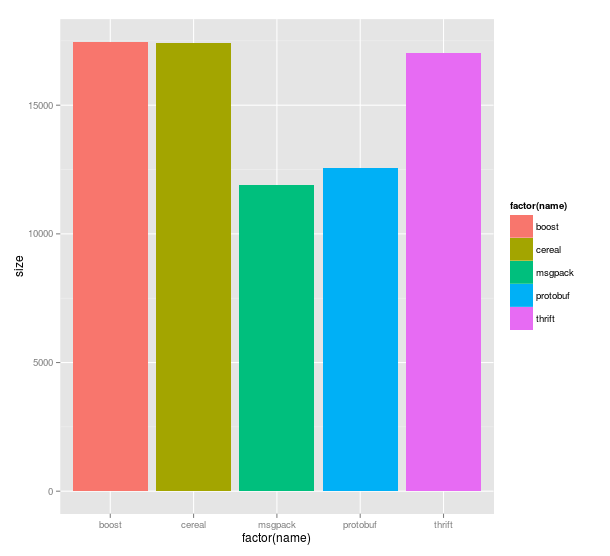
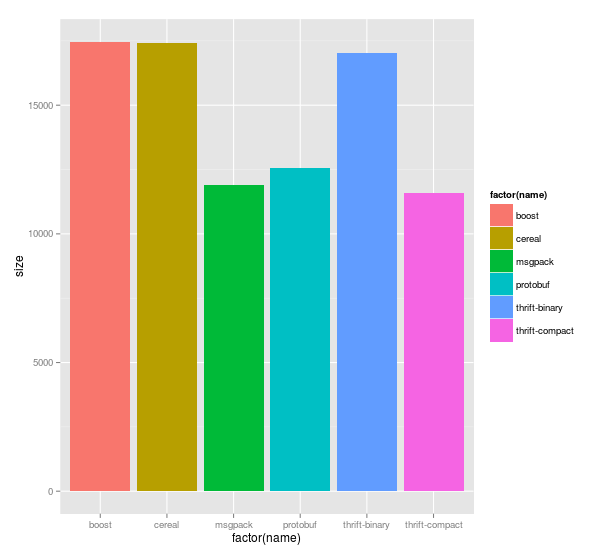
also test Thrift's TCompactProtocol serialization protocol

diff --git a/test.cpp b/test.cpp
@@ -10,6 +10,7 @@
 
 #include <thrift/transport/TBufferTransports.h>
 #include <thrift/protocol/TBinaryProtocol.h>
+#include <thrift/protocol/TCompactProtocol.h>
 
 #include "thrift/gen-cpp/test_types.h"
 #include "thrift/gen-cpp/test_constants.h"
@@ -21,16 +22,28 @@
 
 #include "data.hpp"
 
+enum class ThriftSerializationProto {
+    Binary,
+    Compact
+};
+
 void
-thrift_serialization_test(size_t iterations)
+thrift_serialization_test(size_t iterations, ThriftSerializationProto proto = ThriftSerializationProto::Binary)
 {
     using apache::thrift::transport::TMemoryBuffer;
     using apache::thrift::protocol::TBinaryProtocol;
+    using apache::thrift::protocol::TCompactProtocol;
     
     using namespace thrift_test;
 
-    boost::shared_ptr<TMemoryBuffer>   buffer1(new TMemoryBuffer());
-    boost::shared_ptr<TBinaryProtocol> protocol1(new TBinaryProtocol(buffer1));
+    boost::shared_ptr<TMemoryBuffer> buffer1(new TMemoryBuffer());
+    boost::shared_ptr<TMemoryBuffer> buffer2(new TMemoryBuffer());
+
+    TBinaryProtocol binary_protocol1(buffer1);
+    TBinaryProtocol binary_protocol2(buffer2);
+
+    TCompactProtocol compact_protocol1(buffer1);
+    TCompactProtocol compact_protocol2(buffer2);
 
     Record r1;
 
@@ -44,36 +57,62 @@ thrift_serialization_test(size_t iterations)
 
     std::string serialized;
 
-    r1.write(protocol1.get());
+    if (proto == ThriftSerializationProto::Binary) {
+        r1.write(&binary_protocol1);
+    } else if (proto == ThriftSerializationProto::Compact) {
+        r1.write(&compact_protocol1);
+    }
+
     serialized = buffer1->getBufferAsString();
 
     // check if we can deserialize back
-    boost::shared_ptr<TMemoryBuffer>   buffer2(new TMemoryBuffer());
-    boost::shared_ptr<TBinaryProtocol> protocol2(new TBinaryProtocol(buffer2));
-
     Record r2;
 
     buffer2->resetBuffer((uint8_t*)serialized.data(), serialized.length());
-    r2.read(protocol2.get());
+
+    if (proto == ThriftSerializationProto::Binary) {
+        r2.read(&binary_protocol2);
+    } else if (proto == ThriftSerializationProto::Compact) {
+        r2.read(&compact_protocol2);
+    }
 
     if (r1 != r2) {
         throw std::logic_error("thrift's case: deserialization failed");
     }
 
-    std::cout << "thrift: size = " << serialized.size() << " bytes" << std::endl;
+    std::string tag;
+
+    if (proto == ThriftSerializationProto::Binary) {
+        tag = "thrift-binary:";
+    } else if (proto == ThriftSerializationProto::Compact) {
+        tag = "thrift-compact:";
+    }
+
+    std::cout << tag << " size = " << serialized.size() << " bytes" << std::endl;
 
     auto start = std::chrono::high_resolution_clock::now();
     for (size_t i = 0; i < iterations; i++) {
         buffer1->resetBuffer();
-        r1.write(protocol1.get());
+
+        if (proto == ThriftSerializationProto::Binary) {
+            r1.write(&binary_protocol1);
+        } else if (proto == ThriftSerializationProto::Compact) {
+            r1.write(&compact_protocol1);
+        }
+
         serialized = buffer1->getBufferAsString();
         buffer2->resetBuffer((uint8_t*)serialized.data(), serialized.length());
-        r2.read(protocol2.get());
+
+        if (proto == ThriftSerializationProto::Binary) {
+            r2.read(&binary_protocol2);
+        } else if (proto == ThriftSerializationProto::Compact) {
+            r2.read(&compact_protocol2);
+        }
     }
     auto finish = std::chrono::high_resolution_clock::now();
     auto duration = std::chrono::duration_cast<std::chrono::milliseconds>(finish - start).count();
 
-    std::cout << "thrift: time = " << duration << " milliseconds" << std::endl << std::endl;
+    std::cout << tag << " time = " << duration << " milliseconds" << std::endl << std::endl;
 }
 
 void
@@ -247,7 +286,7 @@ main(int argc, char **argv)
     GOOGLE_PROTOBUF_VERIFY_VERSION;
 
     if (argc < 2) {
-        std::cout << "usage: " << argv[0] << " N [thrift protobuf boost msgpack cereal]" << std::endl << std::endl;
+        std::cout << "usage: " << argv[0] << " N [thrift-binary thrift-compact protobuf boost msgpack cereal]" << std::endl << std::endl;
         std::cout << "arguments: " << std::endl;
         std::cout << " N  -- number of iterations" << std::endl << std::endl;
         return EXIT_SUCCESS;
@@ -276,8 +315,12 @@ main(int argc, char **argv)
     /*std::cout << "total size: " << sizeof(kIntegerValue) * kItegersCount + kStringValue.size() * kStringsCount << std::endl;*/
 
     try {
-        if (names.empty() || names.find("thrift") != names.end()) {
-            thrift_serialization_test(iterations);
+        if (names.empty() || names.find("thrift-binary") != names.end()) {
+            thrift_serialization_test(iterations, ThriftSerializationProto::Binary);
+        }
+
+        if (names.empty() || names.find("thrift-compact") != names.end()) {
+            thrift_serialization_test(iterations, ThriftSerializationProto::Compact);
         }
 
         if (names.empty() || names.find("protobuf") != names.end()) {

diff --git a/README.md b/README.md
@@ -38,13 +38,14 @@ on a typical desktop computer with Intel Core i5 processor running Ubuntu 14.04.
 * protobuf 2.5.0
 * cereal 0.9.1
 
-| serializer | object's size | avg. total time |
-| ---------- | ------------- | --------------- |
-| thrift     | 17017         | 24490           |
-| protobuf   | 12571         | 21110           |
-| boost      | 17470         | 22700           |
-| msgpack    | 11902         | 18470           |
-| cereal     | 17416         | 11020           |
+| serializer     | object's size | avg. total time |
+| -------------- | ------------- | --------------- |
+| thrift-binary  | 17017         | 24490           |
+| thrift-compact | 11597         | 29760           |
+| protobuf       | 12571         | 21110           |
+| boost          | 17470         | 22700           |
+| msgpack        | 11902         | 18470           |
+| cereal         | 17416         | 11020           |
 
 Size mesuared in bytes, time mesuared in milliseconds.
 
